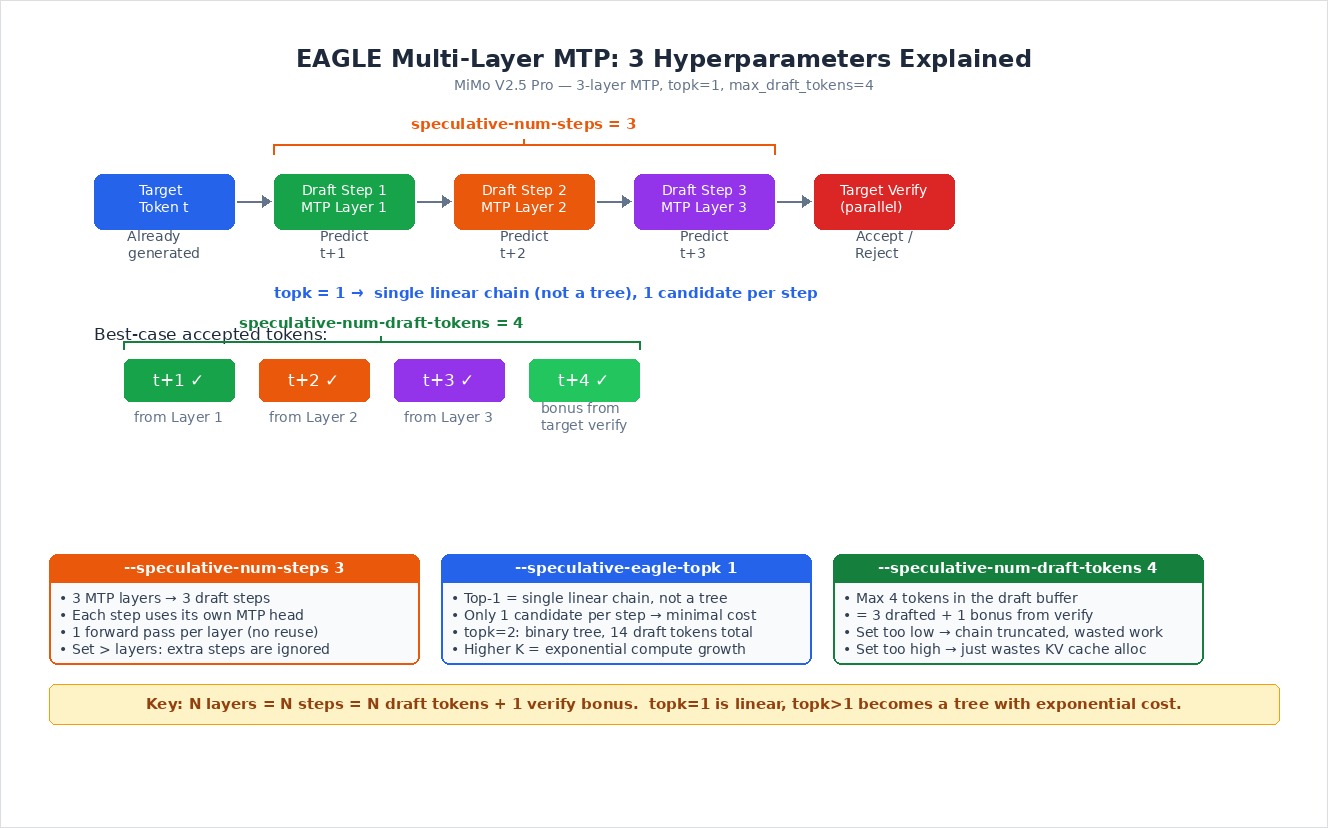
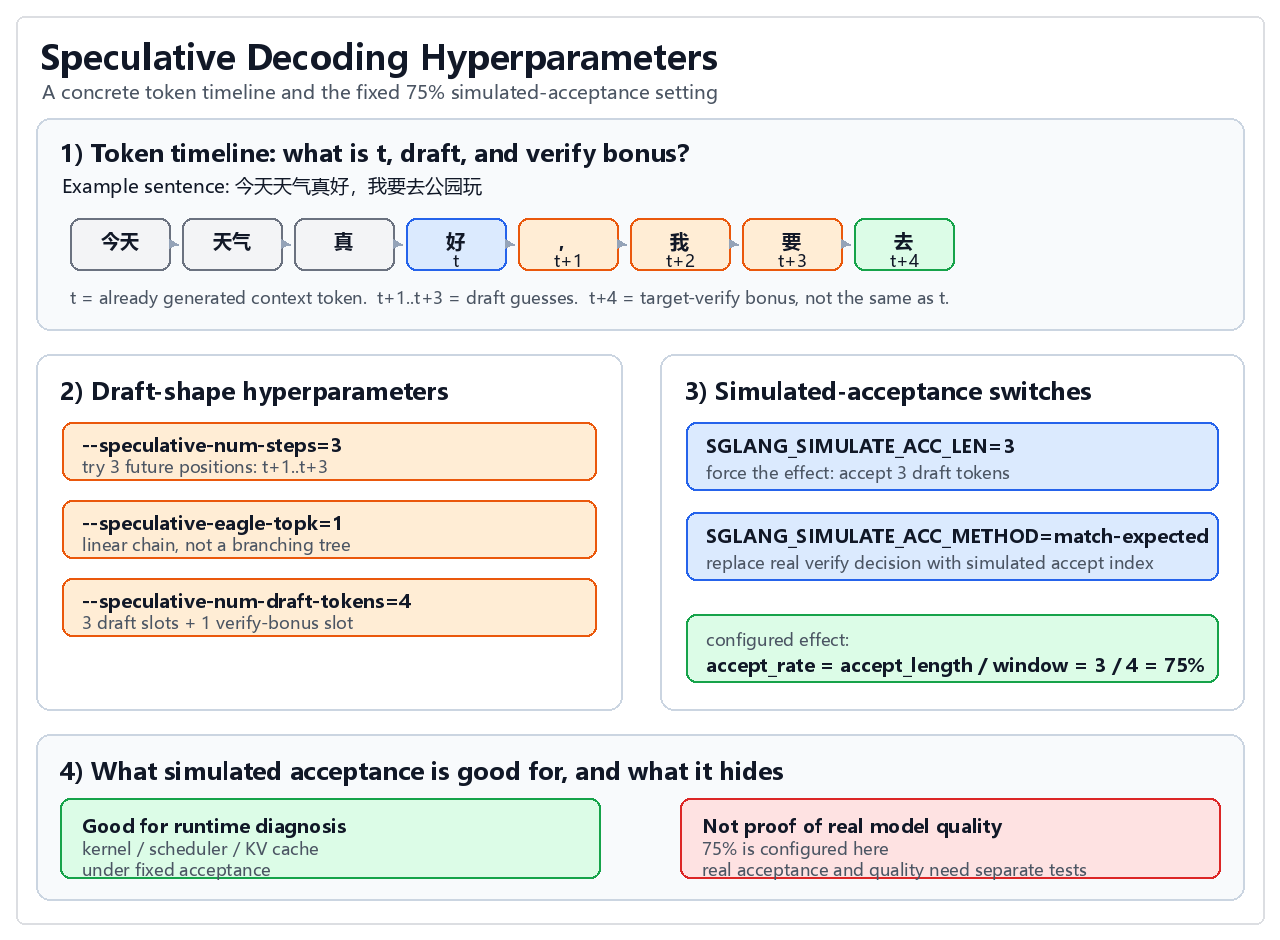
refactor: generalize repo title to Speculative Decoding, remove MiMo case, rewrite simulated acceptance with token timeline example and 4-hyperparameter explanation, align bilingual sections
- H1: Speculative Decoding (removed EAGLE3 and Azure from title)
- Taxonomy: MiMo-V2.5-style MTP merged into generic Native model-family MTP
- MTP layers section: replaced model-specific table with pattern-based table
- Simulated acceptance: added concrete Chinese token example, split hyperparams into draft-shape vs simulation groups, added benefits/tradeoffs table
- Hyperparameter figure: regenerated eagle_mtp_3params_explained.png with token timeline and 4-param layout
- Bilingual: aligned EN/CN tail H2 order, added CN Citation section
- Repository tree root: speculative-decoding/
- Security scan: 0 sensitive hits

diff --git a/Deep-Learning/Speculative-Decoding-EAGLE3/README.md b/Deep-Learning/Speculative-Decoding-EAGLE3/README.md
@@ -1,4 +1,4 @@
-# Speculative Decoding on Azure: EAGLE3, Self-Training, and Native MTP
+# Speculative Decoding
 
 > **Author**: Xinyu Wei (魏新宇) — Microsoft AI GBB Senior System Engineer
 
@@ -11,23 +11,23 @@
 [![SpecForge](https://img.shields.io/badge/Training-SpecForge-green.svg)](https://github.com/SafeAILab/SpecForge)
 [![Gemma 4](https://img.shields.io/badge/Model-Gemma_4-orange.svg)](https://huggingface.co/google/gemma-4-31B-it)
 
-Engineering guide to speculative decoding: validate an official EAGLE3 draft model, self-train a draft head on a single GPU in 45 minutes, benchmark Google's native Gemma 4 MTP assistant, and compare Qwen3.6 DFlash vs Native MTP vs llama.cpp on Azure H100.
+Engineering guide to draft-and-verify acceleration: compare EAGLE3, self-trained draft heads, native MTP assistants, DFlash, and llama.cpp MTP with reproducible benchmark evidence.
 
 
-## Running on Azure
+## Benchmark Environment
 
-All experiments in this project were conducted on an **Azure GPU VM**.
+The experiments in this project were run on the following GPU environment. Azure is the test infrastructure here, not a dependency of the speculative decoding technique.
 
 | Item | Details |
 |---|---|
-| **Azure VM** | [NC40ads_H100_v5](https://learn.microsoft.com/en-us/azure/virtual-machines/nc-h100-v5-series) |
+| **GPU VM used for benchmarks** | [NC40ads_H100_v5](https://learn.microsoft.com/en-us/azure/virtual-machines/nc-h100-v5-series) |
 | **GPU** | NVIDIA H100 80GB |
 | **Frameworks** | vLLM, SGLang, llama.cpp |
 
 
 ## Executive Summary
 
-This project documents a complete research workflow for speculative decoding, from EAGLE3 validation and self-training to a new Gemma 4 native MTP assistant benchmark:
+This project documents a complete research workflow for speculative decoding across multiple draft-and-verify routes: official EAGLE3 validation, self-trained draft heads, native MTP assistants, and DFlash/MTP serving experiments:
 
 | Phase | Model | Measured Result | Test Conditions | Key Insight |
 |-------|-------|-----------------|-----------------|-------------|
@@ -196,8 +196,7 @@ All speculative decoding systems share the same outer loop: a cheap drafter prop
 | **EAGLE3** | A trained draft head/model that reads target-model hidden features from multiple layers | Trained after the target model is fixed, either by the vendor or by you | Loaded as an extra draft model/head beside the target model | +2.21 GiB draft model in the Phase 1 SGLang log | High speedup when the official draft model is available; self-training is possible | Training quality and task distribution matter; bad draft data can slow some workloads |
 | **Gemma 4 MTP** | A Google-published MTP assistant checkpoint (~0.5B params, 4-layer drafter); it uses target model activations and shared KV-cache to improve draft quality (source: [Google MTP docs](https://ai.google.dev/gemma/docs/mtp/mtp)) | Produced by Google as an official assistant checkpoint; this repo does not train it | Loaded as an additional assistant/drafter model; shares target embedding weights and maps to target layers (vLLM log: draft layers mapped to target layers 58/59) | +0.87 GiB assistant weights; KV cache budget -4.86 GiB in this vLLM run | No local draft training required; stable 1.73x in this H100 test | Serving stack must support the assistant architecture; this run required a vLLM config shim |
 | **DFlash** | A target-conditioned block diffusion drafter checkpoint that fuses target context features and drafts a token block in one parallel forward pass (source: [DFlash project](https://z-lab.ai/projects/dflash/) and [arXiv:2602.06036](https://arxiv.org/abs/2602.06036)) | Trained separately for a target model family/checkpoint; public draft checkpoints are published under `z-lab/*-DFlash` | Loaded as a DFlash draft model in a DFlash-aware serving stack such as SGLang or vLLM builds with DFlash support | Not measured in this repo | Makes the draft stage itself block-parallel instead of autoregressive; useful when an official DFlash checkpoint and engine support exist | More memory and engine-version sensitivity; block size, context length, and workload distribution must be benchmarked |
-| **DeepSeek-style MTP** | MTP heads/modules inside the model family, not measured here as a separate external assistant | Release-specific; generally trained with the model-family MTP design | Exposed by that model's own inference stack rather than by Gemma-style assistant loading | Not measured in this repo | Can make MTP part of the training/inference design instead of an external add-on | Implementation details are release-specific; do not assume EAGLE flags or Gemma assistant loading will work |
-| **MiMo-V2.5-style MTP** | Model-family draft modules packaged in the same model repo/directory; MiMo-V2.5-Pro exposes a separate `model_mtp.safetensors` file with `model.mtp.layers.0/1/2` tensors | Release-specific; trained as part of the model-family design | Loaded by pointing the serving stack at the model directory; no separate external draft-model path is required, but the MTP weights are a separate file inside that directory | Not measured in this repo | Potentially better acceptance on the model's own reasoning distribution | Needs workload-specific measurement; high-entropy tasks can still erase the benefit |
+| **Native model-family MTP** | MTP heads/modules packaged with the target model family, sometimes as separate MTP weights inside the same model directory | Release-specific; trained as part of the model-family design | Loaded through that model's native inference stack or model-directory convention rather than by a separate assistant path | Not measured in this repo | Makes MTP part of the model-family serving design instead of a post-hoc add-on | Implementation details are release-specific; do not assume EAGLE flags or Gemma assistant loading will work |
 
 The word "drafter" does not always mean "a full standalone LLM loaded next to the target." The weight form is different across families:
 
@@ -206,10 +205,9 @@ The word "drafter" does not always mean "a full standalone LLM loaded next to th
 | **EAGLE3** | Yes, but they are separate draft-model/head weights, not a copy of the full target model | No | Separate draft-model weights, not full target-model weights |
 | **Gemma 4 MTP** | Yes. Google publishes a separate assistant drafter checkpoint | No | Separate assistant drafter checkpoint |
 | **DFlash** | Yes. Z-Lab publishes separate DFlash draft checkpoints for specific targets | No | Target-conditioned block diffusion draft checkpoint |
-| **DeepSeek-style MTP** | Usually represented as native MTP heads/modules inside the model-family checkpoint, release-specific | No | Native MTP module weights inside the model family |
-| **MiMo-V2.5-style MTP** | Yes. For MiMo-V2.5-Pro, HF lists a separate `model_mtp.safetensors` file containing `model.mtp.layers.0/1/2` tensors in the same model directory | No | Native MTP weights in the same model repo/directory, packaged as `model_mtp.safetensors` |
+| **Native model-family MTP** | Release-specific. Some model families represent MTP as native heads/modules inside the model-family checkpoint or as separate MTP weights in the same model directory | No | Native MTP weights packaged with the model family, not a full target-model replacement |
 
-The diagram below shows where the drafter lives in each route. For DeepSeek-style MTP the drawing is conceptual because this repo did not inspect that release-specific implementation. For MiMo-V2.5-Pro, the public HF file listing shows the MTP modules packaged as `model_mtp.safetensors` with `model.mtp.layers.0/1/2`, in the same model directory as the target shards. DFlash is also target-conditioned, but its distinguishing feature is that the draft generator is a block diffusion model rather than an autoregressive draft head.
+The diagram below shows where the drafter lives in each route. Native model-family MTP is drawn conceptually because each model family chooses its own packaging and serving interface. DFlash is also target-conditioned, but its distinguishing feature is that the draft generator is a block diffusion model rather than an autoregressive draft head.
 
 ```mermaid
 flowchart LR
@@ -255,32 +253,32 @@ flowchart LR
     DST --> DSV
   end
 
-  subgraph MM["MiMo-V2.5-style MTP<br/>model_mtp.safetensors"]
-    MMT["Model-family checkpoint"]
-    MMD["MTP modules<br/>model.mtp.layers.0/1/2<br/>separate file in same directory"]
-    MMV["Serving stack<br/>draft and verify"]
-    MMT --> MMD
-    MMD --> MMV
-    MMT --> MMV
+  subgraph NM["Native model-family MTP<br/>release-specific packaging"]
+    NMT["Model-family checkpoint"]
+    NMD["Native MTP heads or modules<br/>packaged with the target family"]
+    NMV["Serving stack<br/>draft and verify"]
+    NMT --> NMD
+    NMD --> NMV
+    NMT --> NMV
   end
 
   classDef target fill:#eef6ff,stroke:#1f6feb,color:#0b1f3a
   classDef drafter fill:#fff7e6,stroke:#d97706,color:#3b2500
   classDef verify fill:#ecfdf5,stroke:#059669,color:#042f2e
-  class E3T,G4T,DFT,DST,MMT target
-  class E3D,G4D,DFD,DSH,MMD drafter
-  class E3V,G4V,DFV,DSV,MMV verify
+  class E3T,G4T,DFT,DST,NMT target
+  class E3D,G4D,DFD,DSH,NMD drafter
+  class E3V,G4V,DFV,DSV,NMV verify
 ```
 
 ### Deep Comparison: How Each Drafter Actually Works
 
-| Dimension | Classic Speculative Decoding | EAGLE3 | Gemma 4 MTP | DFlash | DeepSeek / MiMo MTP |
+| Dimension | Classic Speculative Decoding | EAGLE3 | Gemma 4 MTP | DFlash | Native model-family MTP |
 |-----------|------------------------------|--------|-------------|--------|---------------------|
 | What the drafter reads from target | Nothing; a separate small LM runs independently | Hidden states from 3 mid-layers (layers 2, 16, 29 in Llama 8B) | Target activations from the last few layers + shared KV-cache (layers 58/59 in Gemma 31B) | Fused target context features injected into the draft layers' KV cache | MTP heads branch directly from the model forward path |
 | Drafter size | A full small LM (e.g. 68M Llama-68M) | ~223M params, 1 decoder layer | ~0.5B params, 4 decoder layers | Lightweight block diffusion checkpoint; target-specific size, not measured here | Native MTP modules inside the model checkpoint |
 | Drafting pattern | Autoregressive draft LM | Autoregressive draft head/model | Autoregressive assistant drafter | Block diffusion; drafts a token block in one parallel forward pass | Native future-token prediction path inside the model family |
 | Can you train it yourself | Use any off-the-shelf small LM; no special training | Yes (SpecForge, 45 min on a single GPU) | No, only Google publishes it | Requires a target-specific DFlash training recipe/checkpoint; this repo did not train one | No, the model vendor builds it during pre-training |
-| What happens after fine-tuning the target | Drafter is independent, so it still works but acceptance rate may drop because output distributions diverge | Re-train the draft head to match the new distribution | Can only hope the original assistant still works; cannot re-train it (speculation, not measured in this repo) | Re-validate or retrain the DFlash checkpoint; target-feature distribution changes can hurt acceptance | MTP modules are part of the model, so fine-tuning changes both together |
+| What happens after fine-tuning the target | Drafter is independent, so it still works but acceptance rate may drop because output distributions diverge | Re-train the draft head to match the new distribution | Can only hope the original assistant still works; cannot re-train it (speculation, not measured in this repo) | Re-validate or retrain the DFlash checkpoint; target-feature distribution changes can hurt acceptance | Native MTP modules are part of the model family, so fine-tuning and serving support must be validated together |
 | Switch to a different target model | Just swap the small LM; no dependency on target internals | Re-train a new draft head | Cannot; the assistant only pairs with its own Gemma family | Cannot assume reuse; use a DFlash checkpoint trained for that target | Not applicable; the MTP modules are inseparable from the model |
 | Serving stack | Any framework that supports assisted generation | SGLang native EAGLE3 support, one flag | vLLM speculative-config; needed a config shim in this test | DFlash-aware SGLang / vLLM builds; engine version matters | Depends on the model vendor's own inference stack |
 | Coupling to target | None (loosest) | Tight (reads mid-layer hidden states) | Tight (reads last-layer activations + shared KV-cache) | Tight (reads target features, but remains an external checkpoint) | Tightest (native modules inside model) |
@@ -289,14 +287,14 @@ flowchart LR
 
 EAGLE3, Gemma/DeepSeek MTP, and DFlash represent different design philosophies, not a simple "old vs new" progression:
 
-| Dimension | EAGLE3 (post-hoc) | Gemma 4 MTP (hybrid) | DFlash (external block diffusion) | DeepSeek / MiMo MTP (native) |
+| Dimension | EAGLE3 (post-hoc) | Gemma 4 MTP (hybrid) | DFlash (external block diffusion) | Native model-family MTP |
 |-----------|--------------------|----------------------|-----------------------------------|------------------------------|
 | Core question | Target is fixed; how to build the best drafter after the fact? | Co-train the drafter with the target, but publish it as a separate checkpoint | Can an external drafter remove the draft-stage sequential bottleneck by predicting a whole block at once? | Make MTP part of the pre-training objective itself |
 | Key innovation | Solved the train-test gap: training uses the drafter's own predicted features instead of ground-truth features, so training matches inference (EAGLE-3, NeurIPS 2025) | Activation sharing + KV-cache reuse between target and assistant | Target feature fusion + KV injection + block diffusion parallel drafting | MTP as a training objective, not just an inference trick; may also improve representation learning during pre-training |
 | Academic record | EAGLE (ICML 2024), EAGLE-2 (EMNLP 2024), EAGLE-3 (NeurIPS 2025) | Model card only; no dedicated MTP paper | DFlash paper: arXiv:2602.06036, ICML 2026 | Described in DeepSeek-V2/V3 papers |
 | Industry trend | Universal retrofit: works on any target model | Middle ground: co-trained but separately deployable | New external drafter family: target-conditioned but block-parallel | Forward-looking: more vendors will build MTP into training |
 
-Neither route will disappear. Post-hoc drafters (EAGLE3) remain essential when you need to accelerate an existing model you cannot re-train. Native MTP (DeepSeek/MiMo) is the direction for new model families designed with speculative decoding in mind.
+Neither route will disappear. Post-hoc drafters (EAGLE3) remain essential when you need to accelerate an existing model you cannot re-train. Native model-family MTP is the direction for new model families designed with speculative decoding in mind.
 
 ### Decision Guide: Which Route to Use
 
@@ -311,7 +309,7 @@ Neither route will disappear. Post-hoc drafters (EAGLE3) remain essential when y
 | Long-context or memory-constrained serving | **Benchmark before enabling DFlash** | DFlash adds draft weights and engine-specific paths; larger draft blocks can waste work if acceptance is low |
 | Long-term production without vendor dependency | **EAGLE3** | Community-driven (SafeAI Lab); does not depend on a single vendor publishing assistant checkpoints |
 
-The practical difference is simple: EAGLE3 asks you to manage a trained feature-based draft head that reads multiple mid-layer hidden states; Gemma 4 MTP gives you a published assistant model that reads target activations and shares the KV-cache; DFlash gives you a target-conditioned diffusion drafter that predicts a block of draft tokens in one parallel forward pass; DeepSeek/MiMo-style MTP moves the draft mechanism deeper into the model family as native modules. All four read or depend on target-model internal information in different ways — the difference is how the drafter is packaged, how it drafts, and how tightly it is tied to the serving stack. They are all speculative decoding, but they are not interchangeable deployment recipes.
+The practical difference is simple: EAGLE3 asks you to manage a trained feature-based draft head that reads multiple mid-layer hidden states; Gemma 4 MTP gives you a published assistant model that reads target activations and shares the KV-cache; DFlash gives you a target-conditioned diffusion drafter that predicts a block of draft tokens in one parallel forward pass; native model-family MTP moves the draft mechanism deeper into the model family as native modules. All four read or depend on target-model internal information in different ways — the difference is how the drafter is packaged, how it drafts, and how tightly it is tied to the serving stack. They are all speculative decoding, but they are not interchangeable deployment recipes.
 
 ### Practical Benchmark Matrix: DFlash vs MTP on Qwen3.6
 
@@ -400,79 +398,98 @@ This repo measured single-stream (concurrency=1) latency and generation TPS on N
 
 MTP (Multi-Token Prediction) layers are independent draft heads trained into the model during pretraining. The number of MTP layers directly determines how speculative decoding should be configured.
 
-**MTP Layer Count Across Models (source: official HF config.json and SGLang docs):**
+**MTP layer-count patterns:**
 
-| Model | MTP Layers | Architecture | Source |
-|-------|:----------:|-------------|--------|
-| Qwen3.6-27B | **1** | Single MTP head, reused N times for N draft tokens | HF `config.json` |
-| MiMo-7B-RL | **1** | Single MTP head | HF `config.json`: `"num_nextn_predict_layers": 1` |
-| MiMo-V2.5-Pro (1.02T) | **3** | 3-layer multi-layer EAGLE | SGLang cookbook: "3-layer MTP module" |
-| MiMo-V2.5 (310B) | **3** | 3-layer multi-layer EAGLE | SGLang cookbook |
-| DeepSeek-V3 / R1 | **1** | Single MTP head | Official paper |
+| Pattern | MTP layers | Draft shape | Serving implication |
+|---------|:----------:|-------------|---------------------|
+| Single-layer native MTP | 1 | One MTP head is reused across multiple future positions | More draft tokens require repeated use of the same head, so error can accumulate as the prediction moves farther ahead |
+| Multi-layer native MTP | N | N native heads/modules can represent N future positions | `--speculative-num-steps` should usually start near the native MTP layer count, then be benchmarked |
+| External assistant MTP | Implementation-specific | A separate assistant/drafter checkpoint proposes future tokens | Configure through the serving engine's assistant/speculative config rather than native MTP layer flags |
+| DFlash-style drafter | Block-level | A target-conditioned drafter proposes a token block in parallel | Tune block size and memory headroom; it is not interchangeable with autoregressive MTP flags |
 
-**Why Layer Count Matters:**
+**Why layer count matters:**
 
-- **N layers = N independent draft heads**, each predicting a different future position (+1, +2, ..., +N) in **1 forward pass per layer**.
-- **1-layer models** (Qwen3.6, DeepSeek) must **serially reuse the same head** when `num_speculative_tokens > 1`. The further the prediction, the more error accumulates, and acceptance rate drops.
-- **3-layer models** (MiMo V2.5) can do **3 parallel predictions in 3 independent forward passes**, with no error accumulation between layers.
+- **N native layers can represent N future positions** (`t+1`, `t+2`, ..., `t+N`).
+- **1-layer MTP** can still draft multiple future tokens, but it must reuse the same head repeatedly; the farther it looks ahead, the more errors can accumulate.
+- **Multi-layer MTP** can assign different native heads/modules to different future positions, so it is often configured with `num_steps` close to the native MTP layer count.
 
-**The 3 Key Hyperparameters (SGLang EAGLE Multi-Layer MTP):**
+**Concrete token example: "今天天气真好，我要去公园玩"**
+
+Assume the model has already generated the context `今天天气真好`. The last real token in the current context is `t = 好`. It is not a new token produced by this speculative step; it is simply the starting point.
+
+```text
+Already generated context:
+  ... 今天天气真 好
+                  ^
+                  t = already generated target token
+
+Draft/MTP proposes three future positions:
+  t+1 = ，
+  t+2 = 我
+  t+3 = 要
+
+Target verification checks those draft tokens in one forward pass:
+  verify t+1, t+2, t+3
+
+Target verification also produces one extra next-token logit:
+  t+4 = 去   ← bonus from target verify, not the same thing as token t
+```
+
+So `target token t already generated` and `t+4 bonus from target verify` are different things:
+
+| Symbol | Meaning in this example | Who produces it? |
+|--------|-------------------------|------------------|
+| `t` | The existing context token `好`; the step starts here | Already produced before this step |
+| `t+1..t+3` | Draft guesses: `， 我 要` | Draft/MTP |
+| `t+4` | The next token `去` obtained as a verification byproduct | Target verify |
+
+**Hyperparameters: draft shape vs simulated acceptance**
 
 <div align="center"><img src="images/eagle_mtp_3params_explained.png" width="960" /></div>
 
-| Parameter | What it controls | Recommended value |
-|-----------|-----------------|-------------------|
-| `--speculative-num-steps N` | How many draft steps to run (should match MTP layer count) | N = number of MTP layers (e.g. 3 for MiMo V2.5 Pro) |
-| `--speculative-eagle-topk K` | How many candidates per step (1 = linear chain, K > 1 = tree) | 1 for most workloads (greedy, minimal overhead) |
-| `--speculative-num-draft-tokens D` | Maximum buffer size for draft tokens | D = tree_size + 1 (e.g. 4 for topk=1, steps=3) |
+The settings are easier to read if they are split into two groups:
 
-**topk=1 (linear chain) vs topk=2 (binary tree):**
+| Group | Parameter | Example value | What it controls |
+|-------|-----------|--------------:|------------------|
+| Draft shape | `--speculative-num-steps` | `3` | How many draft steps/positions the drafter attempts (`t+1..t+3` in the example) |
+| Draft shape | `--speculative-eagle-topk` | `1` | Tree width. `1` means a linear chain; larger values create a tree of alternatives |
+| Draft buffer | `--speculative-num-draft-tokens` | `4` | Buffer size: 3 draft positions plus 1 target-verify bonus position |
+| Simulation | `SGLANG_SIMULATE_ACC_LEN` | `3` | Force the runtime to behave as if 3 draft tokens were accepted |
+| Simulation | `SGLANG_SIMULATE_ACC_METHOD` | `match-expected` | Replace the real verification decision with a simulated accept index |
 
-```
-topk=1: each step produces 1 candidate → linear chain
-  Step 1: 1 candidate     Total: 1 + 1 + 1 = 3 draft tokens
-  Step 2: 1 candidate     + 1 verify bonus = 4
-  Step 3: 1 candidate     → set num-draft-tokens = 4
-
-topk=2: each step doubles → binary tree
-  Step 1: 2 candidates    Total: 2 + 4 + 8 = 14 draft tokens
-  Step 2: 4 candidates    + 1 verify bonus = 15
-  Step 3: 8 candidates    → set num-draft-tokens = 15
-```
-
-The **verify bonus** token is a free byproduct of target verification: when the target model verifies N draft tokens in 1 forward pass, it computes N+1 positions of logits. The last position has no draft to verify, so it is directly sampled as a guaranteed correct token. This is why speculative decoding **never performs worse than standard autoregressive decoding** — every verify step produces at least 1 correct token.
-
-**MiMo V2.5 Pro Fixed-Acceptance Benchmark Context (source: SGLang official cookbook and MiMo MI300X benchmark repo):**
-
-| Batch Size / DP rank | Without MTP | 3-layer MTP, accept=3 | 3-layer MTP, accept=4 |
-|:--------------------:|:-----------:|:---------------------:|:---------------------:|
-| 64 | 1,875 tok/s | 3,873 tok/s (2.07×) | 5,103 tok/s (2.72×) |
-| 96 | 2,564 tok/s | 4,840 tok/s (1.89×) | 6,225 tok/s (2.43×) |
-
-The `accept=3/4` columns should be read as fixed-acceptance or simulated-acceptance benchmark settings, not as proof that the draft model naturally reaches those acceptance rates on every workload. In SGLang, `SGLANG_SIMULATE_ACC_LEN=3` fixes `accept_length=3`; with a 4-token draft window, this corresponds to:
+With a 4-token draft window and a simulated accept length of 3, the reported acceptance rate is a configured effect:
 
 ```text
 accept_rate = accept_length / max_accept_length = 3 / 4 = 0.75
 ```
 
-The prompt, target forward pass, and runtime path still execute, so TPOT can decrease and output tok/s can increase. The speedup comes from the runtime being told to advance by three accepted tokens per decode step. For example:
+This is not the same as the model proving that it naturally accepts 75% of draft positions. It means the benchmark is running under a fixed-acceptance assumption.
+
+**Why simulated acceptance exists**
+
+| Aspect | What it helps with | What it does not prove |
+|--------|--------------------|------------------------|
+| Kernel/runtime benchmarking | Isolates scheduler, kernel, KV-cache, and disaggregation behavior under the same acceptance assumption | Real draft-model quality |
+| Upper-bound analysis | Shows how fast the runtime could be if the drafter reliably provided 3 useful tokens per step | Production end-to-end throughput |
+| Cross-system alignment | Lets two systems compare the same decode-loop shape | That the output text is faithful or high quality |
+
+The prompt, target forward pass, and runtime path still execute, so TPOT can decrease and output tok/s can increase. The speedup comes from the runtime being told to advance by three accepted tokens per decode step:
 
 ```text
 1024 output tokens / 1 token per step = 1024 decode steps
 1024 output tokens / 3 tokens per step ≈ 341 decode steps
 ```
 
-The tradeoff is that this no longer measures truthful generation quality or real draft-model acceptance. It is a diagnostic / upper-bound benchmark switch for separating draft-model capability from runtime-system capability:
+**Tradeoffs of simulated acceptance:**
 
-```text
-real performance = draft model capability × runtime system capability
-```
+| Benefit | Cost / risk |
+|---------|-------------|
+| Good for apples-to-apples runtime comparison | Output quality is not a truthful generation-quality signal |
+| Good for upper-bound TPOT / throughput analysis | `accept_rate=0.75` is a configured setting, not measured model capability |
+| Good for isolating kernel and serving-stack bottlenecks | It can hide draft-model calibration, workload distribution, and real rejection behavior |
+| Reproducible and stable for engineering diagnosis | It can overstate production throughput if reported without caveats |
 
-Use this setting to compare kernel, scheduler, KV-cache, or PD-disaggregation paths under the same fixed acceptance assumption. Do not report it as `real accept_rate=0.75`; write `fixed/simulated accept_length=3, equivalent to accept_rate=0.75 under a 4-token draft window`.
-
-On natural text (GSM8K), MiMo V2.5 Pro reports **accept rate 0.755** and **accept length 3.27** (out of max 4) in the cited SGLang context. On random token streams, accept rate drops to 0.13–0.27 — MTP is trained on natural language distributions and has no signal on random bytes. For real MI300X runs without simulated acceptance, the 2026-06-26 stack measured accept_length 2.15-2.38 and accept_rate 0.38-0.46.
-
-Serving-stack version matters for MiMo MTP. The SGLang MiMo-V2.5 cookbook pins H100/H200 Hopper deployments to `lmsysorg/sglang:nightly-dev-20260511-044bb88a` and explicitly warns that `lmsysorg/sglang:latest` will not load the MiMo-V2.5 checkpoints. Do not apply the MI300X AMD/ROCm fork (`sammysun0711/sglang@mimo_aiter_attn`, commit `db840d935`) to H200 runs; that fork is specific to the ROCm/aiter MI300X reproduction path. If reproducing the MiMo-V2.5 310B H200 benchmark, the SGLang cookbook reports `lmsysorg/sglang:dev-mimo-v2.5` / `sglang 0.0.0.dev1+g7d99af439` for that benchmark environment.
+Recommended wording: write `fixed/simulated accept_length=3, equivalent to accept_rate=0.75 under a 4-token draft window`. Do not write `real accept_rate=0.75`.
 
 For DFlash guidance: use DFlash when an official draft checkpoint exists, the serving engine has stable support, memory headroom is sufficient, and workload-specific acceptance is high. Otherwise, benchmark native MTP and DFlash side by side.
 
@@ -1176,7 +1193,7 @@ Check:
 ## Repository Structure
 
 ```
-Speculative-Decoding-EAGLE3/
+speculative-decoding/
 ├── README.md
 ├── README-CN.md
 ├── requirements.txt
